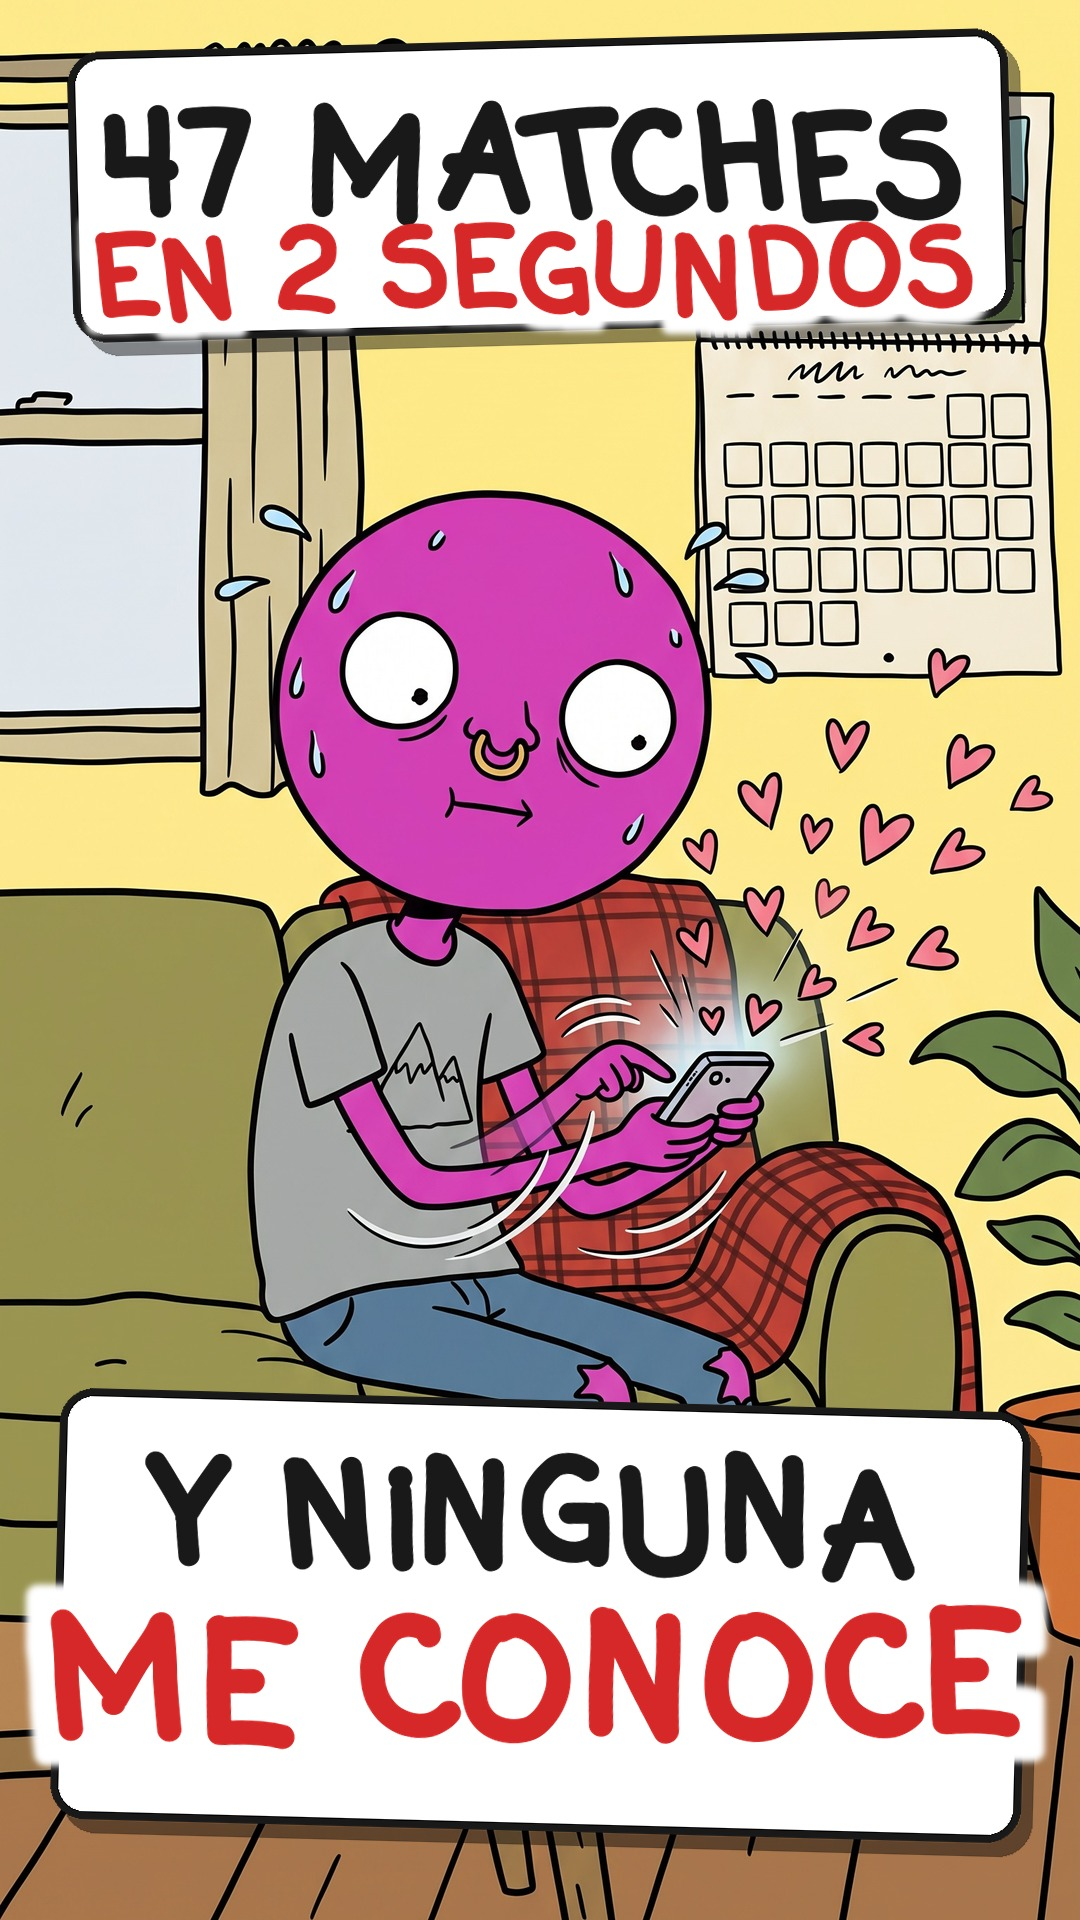
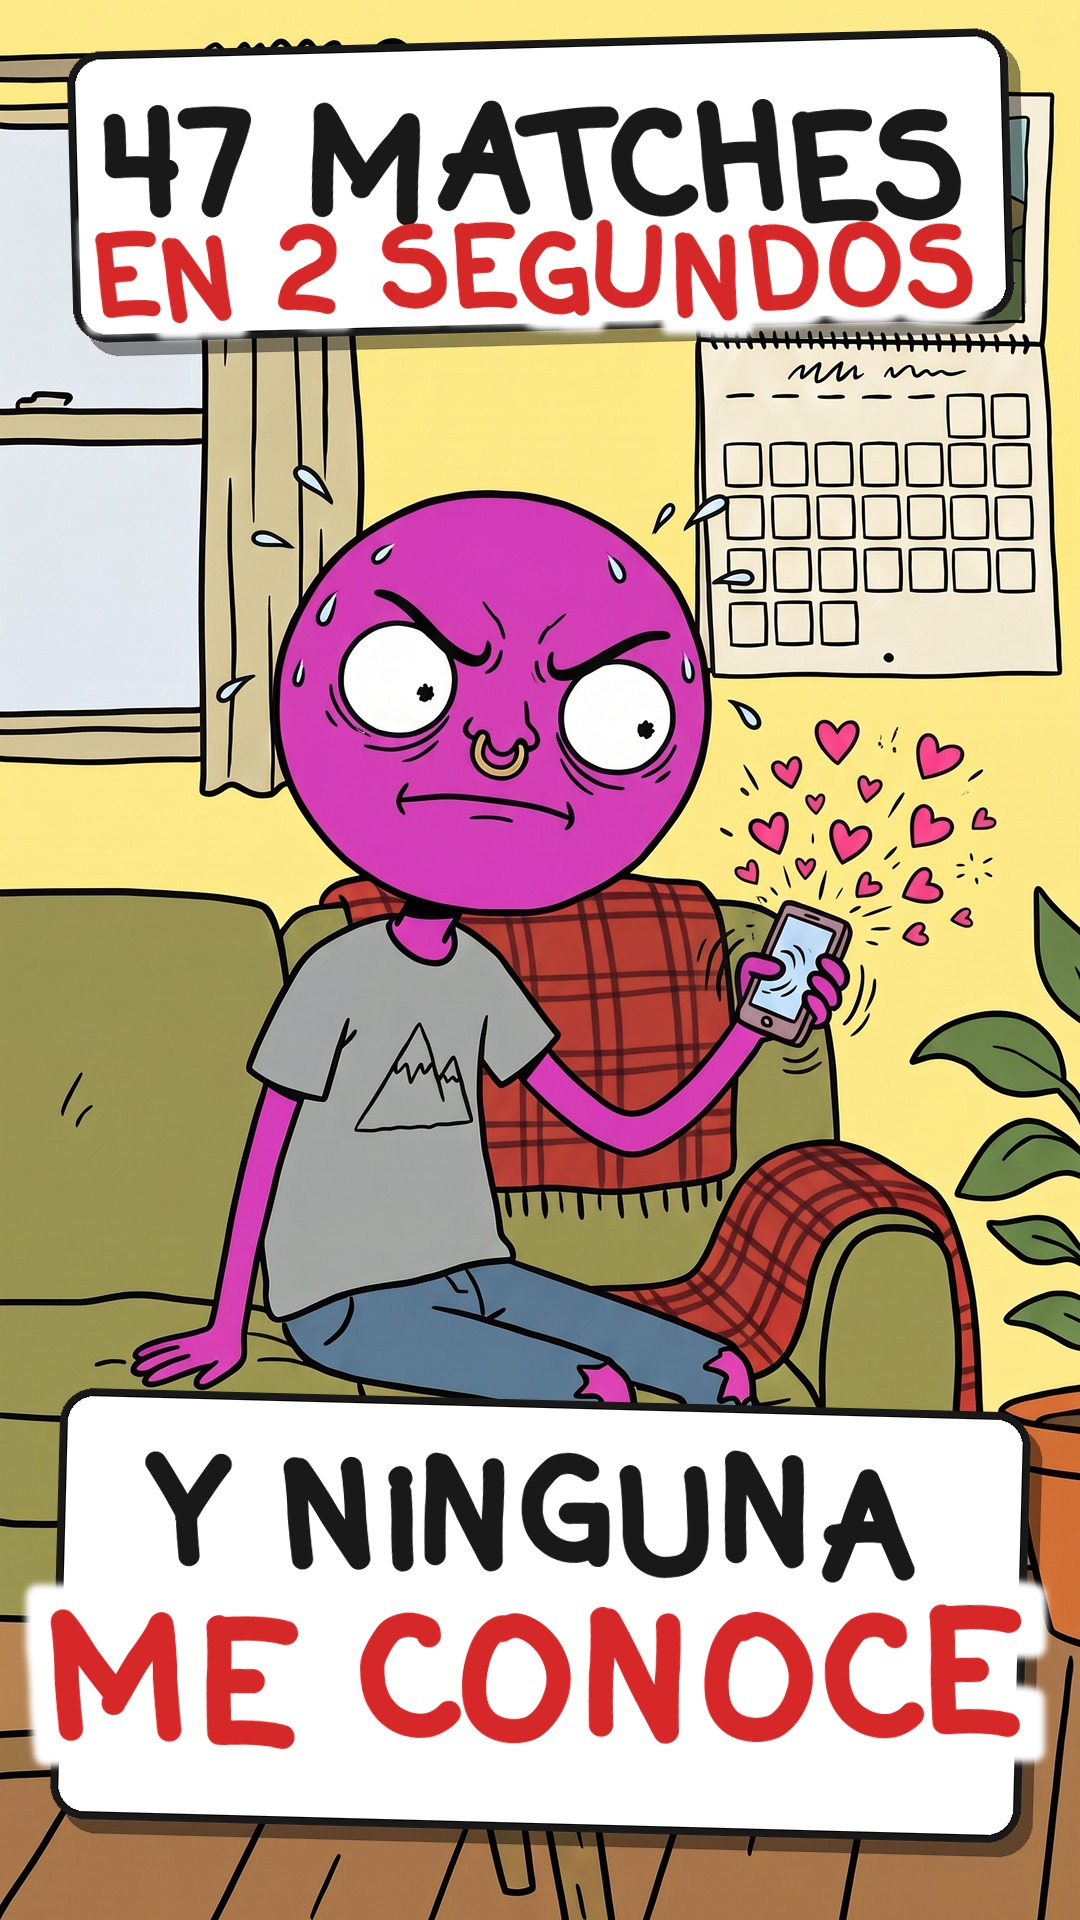
App de ligar v3: deslizar sin tres brazos, hermana animada en la cocina, portada con el dibujo nuevo
Claude-Session: https://claude.ai/code/session_01W1d2B3tJHY5s1jRup8PdJX

diff --git a/herramientas/video/app_ligar/plan.py b/herramientas/video/app_ligar/plan.py
@@ -52,13 +52,14 @@ b = 0.1
 P = [
     # «Mi hermana dice que ya va siendo hora… me ha instalado una aplicación de ligar. Mientras yo cenaba.»
     # (v1: 7 s en el mismo plano de la cocina, «algo estático») «ya va siendo hora»: ella da golpecitos al reloj
-    esc('es_cena_reloj', 0, ['es_cena_reloj']),
+    # (v2: la hermana quieta «es raro») da golpecitos al reloj y le señala, alternando
+    esc('es_cena_reloj', 0, ['es_cena_reloj', 'es_cena_reloj_b'], alterna=alt('es_cena_reloj', 'es_cena_reloj_b', 0.45)),
     # «Así que me ha instalado una aplicación de ligar»: la app instalándose en su móvil
     esc('br_instala', T('así') - c, [], zoom=1.05),
     # «Mientras yo cenaba»: él sorbiendo espaguetis sin enterarse
-    esc('es_cena', T('mientras') - c, [], alterna=alt('es_cena', 'es_cena_sorbe', 0.3)),
+    esc('es_cena', T('mientras') - c, [], alterna={'imgs': [I + 'es_cena.jpg', I + 'es_cena_sorbe.jpg', I + 'es_cena_teclea.jpg', I + 'es_cena_sorbe.jpg'], 'cada': 0.28}),
     # «Primero, seis fotos.»: la hermana con el móvil
-    esc('es_cena_b', T('primero') - c, rotulos=[R(T('primero') - b, '6 FOTOS', 540, 1560, 'rojo', 120, T('yo', 1) - 0.05, caja=True)]),
+    esc('es_cena_b', T('primero') - c, ['es_cena_b', 'es_cena_b2'], cambios=[ch(T('fotos') - c, 'es_cena_b2')], rotulos=[R(T('primero') - b, '6 FOTOS', 540, 1560, 'rojo', 120, T('yo', 1) - 0.05, caja=True)]),
     # «Yo en el móvil tengo tres del DNI y una del ticket del parking.»: la galería
     esc('br_galeria', T('yo', 1) - c, []),
     # «Así que me hace una en el pasillo. 33 intentos.»: posa; el flash
@@ -75,7 +76,8 @@ P = [
     # «¿De quién es el brazo?»
     esc('es_brazo', T('de', 2) - c),
     # «Decido cambiar de estrategia y deslizo hacia la derecha a todo ser viviente…»
-    esc('es_desliza', T('decido') - c, ['es_desliza', 'es_desliza_b'], alterna=alt('es_desliza', 'es_desliza_b', 0.15, desde=T('deslizo') - c), rotulos=[R(T('47') - b, '47 EN 2 SEGUNDOS', 540, 330, 'rojo', 90, caja=True)]),
+    # (v2: tenía TRES brazos) nuevo dibujo hecho editando es_brazo, que tiene los brazos bien
+    esc('es_desliza4', T('decido') - c, ['es_desliza4', 'es_desliza4_b'], alterna=alt('es_desliza4', 'es_desliza4_b', 0.15, desde=T('deslizo') - c), rotulos=[R(T('47') - b, '47 EN 2 SEGUNDOS', 540, 330, 'rojo', 90, caja=True)]),
     # «Y me hace match una. Laura.»
     esc('br_match', T('y', 4) - c, [], rotulos=[R(T('laura') - b, 'LAURA', 540, 1500, 'rojo', 120, caja=True)]),
     # «Le escribo: hola, ¿qué tal? A media tarde me contesta: jajaja.»

diff --git a/herramientas/video/app_ligar/preparar.py b/herramientas/video/app_ligar/preparar.py
@@ -10,9 +10,10 @@ from scipy import ndimage as ndi
 BASES = {'es_cena': 'es_cena_2', 'es_pasillo': 'es_pasillo_2', 'br_galeria': 'br_galeria2', 'br_montana': 'br_montana2',
          'br_boda': 'br_boda2'}
 TAL_CUAL = ['es_cama', 'es_cero', 'br_tigre', 'es_bar', 'es_bar_b', 'es_desliza', 'br_match', 'br_chat', 'es_despedida',
-            'es_despedida_b', 'br_insta', 'br_foto', 'es_cama_b', 'es_brazo', 'es_copia', 'es_madre_resp', 'es_deshecho', 'br_madre', 'br_instala', 'br_notif']
+            'es_despedida_b', 'br_insta', 'br_foto', 'es_cama_b', 'es_brazo', 'es_copia', 'es_madre_resp', 'es_deshecho', 'br_madre', 'br_instala', 'br_notif', 'es_desliza4']
 VARIANTES = {'es_cena_b': 'es_cena', 'es_pasillo_b': 'es_pasillo', 'es_bar_c': 'es_bar_b', 'es_bar_d': 'es_bar_b',
-             'br_chat_b': 'br_chat', 'br_madre_b': 'br_madre', 'es_cena_reloj': 'es_cena', 'es_cena_sorbe': 'es_cena', 'es_desliza_b': 'es_desliza'}
+             'br_chat_b': 'br_chat', 'br_madre_b': 'br_madre', 'es_cena_reloj': 'es_cena', 'es_cena_sorbe': 'es_cena', 'es_cena_reloj_b': 'es_cena_reloj', 'es_cena_teclea': 'es_cena',
+             'es_cena_b2': 'es_cena_b'}
 os.makedirs('img', exist_ok=True)
 
 
@@ -37,6 +38,13 @@ for nom, base in VARIANTES.items():
     al = np.asarray(Image.fromarray((m * 255).astype('uint8')).filter(ImageFilter.GaussianBlur(3))).astype(float)[..., None] / 255
     Image.fromarray((a * (1 - al) + b * al).astype('uint8')).save(f'img/{nom}.jpg', quality=92)
     print(nom, 'cambia %.1f%%' % (m.mean() * 100))
+
+
+B = np.asarray(Image.open('img/es_desliza4.jpg').convert('RGB')).astype(float)
+O = np.asarray(carga('desliza4_2', (B.shape[1], B.shape[0]))).astype(float)
+m = np.zeros(B.shape[:2]); m[int(0.36 * B.shape[0]):int(0.6 * B.shape[0]), int(0.63 * B.shape[1]):] = 1
+m = np.asarray(Image.fromarray((m * 255).astype('uint8')).filter(ImageFilter.GaussianBlur(12))).astype(float)[..., None] / 255
+Image.fromarray((B * (1 - m) + O * m).astype('uint8')).save('img/es_desliza4_b.jpg', quality=92)
 
 
 def cabeza(a):

diff --git a/herramientas/video/app_ligar/portada.py b/herramientas/video/app_ligar/portada.py
@@ -4,7 +4,7 @@ import sys, os
 sys.path.insert(0, os.path.join(os.path.dirname(os.path.abspath(__file__)), '..', '..', 'shorts', 'portadas'))
 import portadas as P
 from PIL import Image, ImageDraw, ImageFilter
-im = Image.open('img/es_desliza.jpg').convert('RGB')
+im = Image.open('img/es_desliza4.jpg').convert('RGB')
 im = im.resize((1080, round(im.height * 1080 / im.width)), Image.LANCZOS)
 y0 = (im.height - 1920) // 2
 im = im.crop((0, y0, 1080, y0 + 1920)).convert('RGBA')
